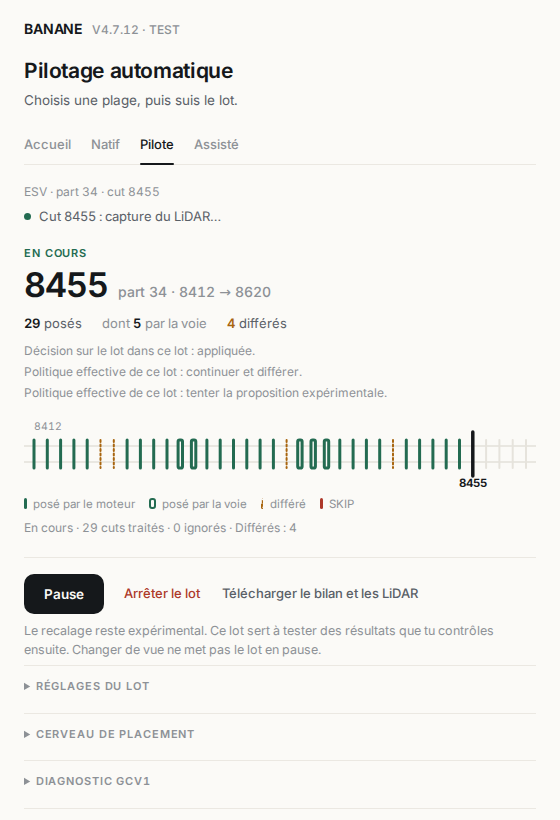
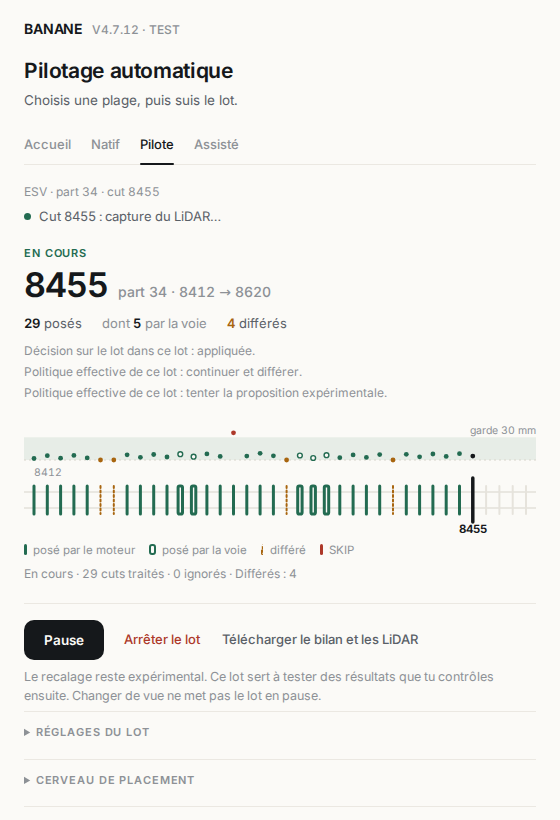
Chantier B, étape 2 : le profil en long au-dessus de la voie
Pour chaque cut, l'écart de la pose à la voie de ses voisins (garde du
premier passage, ou distance à la prédiction d'une reprise ou d'un choix),
avec la bande de la garde de continuité (0–30 mm) ; au-delà, point rouge.
background.js consigne cet écart par cut dans le lot (lotCommands), pour
les lots « appliquer » comme « observer ».

Claude-Session: https://claude.ai/code/session_01Mbx1oTKm5NQ5BEyZizExQ5

diff --git a/panel.js b/panel.js
@@ -90,13 +90,23 @@
    const cuts=[...new Set((b.sequence||[]).map(num).filter(Number.isFinite))];
    const classe=c=>fait.has(c)?(parVoie.has(c)?'voie-l':'moteur'):differe.has(c)?'differe':saute.has(c)?'skip':main.has(c)?'main'
      :c===actif?(incertain?'incertain':'actuel'):'avenir';
-   return {fait,differe,saute,main,parVoie,cuts,classe,ouvert,incertain,actif};
+   const ecart=c=>{const v=Number(b.lotCommands?.[c]?.ecartMm);return Number.isFinite(v)?v:null;};
+   return {fait,differe,saute,main,parVoie,cuts,classe,ouvert,incertain,actif,ecart};
  }
  function dessinerVoie(v){
    const W=512,x0=10,visibles=v.cuts.slice(-44),avenir=v.ouvert?4:0,n=visibles.length+avenir,pas=Math.min(22,(W-2*x0)/Math.max(n-1,1));
    const X=i=>Math.round((x0+i*pas)*10)/10;
-   let svg=`<svg viewBox="0 0 ${W} 68" xmlns="http://www.w3.org/2000/svg" aria-hidden="true">`
-     +`<line class="rail" x1="0" y1="26" x2="${W}" y2="26"/><line class="rail" x1="0" y1="42" x2="${W}" y2="42"/>`;
+   /* Profil en long : l'écart de chaque cut à la voie de ses voisins, au-dessus
+    * de la voie, avec la bande de la garde de continuité (0–30 mm). Échelle
+    * 0–45 mm ; au-delà, le point reste au plafond, plein rouge. */
+   const P0=40,PH=34,Y=mm=>Math.round((P0-Math.min(mm,45)/45*PH)*10)/10,avecProfil=visibles.some(c=>v.ecart(c)!==null);
+   const dy=avecProfil?46:0;
+   let svg=`<svg viewBox="0 0 ${W} ${68+dy}" xmlns="http://www.w3.org/2000/svg" aria-hidden="true">`;
+   if(avecProfil){svg+=`<rect class="bande" x="0" y="${Y(30)}" width="${W}" height="${Math.round((P0-Y(30))*10)/10}"/>`
+     +`<line class="zero" x1="0" y1="${P0}" x2="${W}" y2="${P0}"/><text x="${W}" y="${Y(30)-3}" text-anchor="end">garde 30 mm</text>`;
+     visibles.forEach((c,i)=>{const e=v.ecart(c);if(e===null)return;const k=v.classe(c);
+       svg+=`<circle class="p ${e>30?'hors':k}" cx="${X(i)}" cy="${Y(e)}" r="2.4"/>`;});}
+   svg+=`<g transform="translate(0 ${dy})"><line class="rail" x1="0" y1="26" x2="${W}" y2="26"/><line class="rail" x1="0" y1="42" x2="${W}" y2="42"/>`;
    visibles.forEach((c,i)=>{const x=X(i),k=v.classe(c),haut=k==='actuel'||k==='incertain';
      svg+=k==='voie-l'?`<rect class="t voie-l" x="${x-2.2}" y="20" width="4.4" height="28" rx="1.6" stroke-width="1.5"/>`
        :`<line class="t ${k}" x1="${x}" y1="${haut?12:20}" x2="${x}" y2="${haut?56:48}"/>`;
@@ -105,7 +115,7 @@
    if(visibles.length&&!['actuel','incertain'].includes(v.classe(visibles[0])))svg+=`<text x="${X(0)}" y="10">${entier(visibles[0])}</text>`;
    const dernier=visibles.at(-1);
    if(visibles.length>1&&!['actuel','incertain'].includes(v.classe(dernier)))svg+=`<text x="${X(visibles.length-1)}" y="10" text-anchor="end">${entier(dernier)}</text>`;
-   return svg+'</svg>';
+   return svg+'</g></svg>';
  }
  function render(s){state=s;const id=s.current?.identity,b=s.batch,m=s.manual,n=s.native,busy=working||s.busy;
    $('context').textContent=id?`ESV · part ${id.part} · cut ${id.cut}`:'';

diff --git a/background.js b/background.js
@@ -117,7 +117,7 @@ async function commandLot(proposal,lotObservation){
  /* « La ligne » : le panneau dessine « posé par la voie » les cuts traités que
   * la décision a commandés ; la trace vit dans le lot, bornée à ses cuts. */
  const b=engine.s.batch,cut=engine.s.before?.identity?.cut;
- if(b&&Number.isInteger(cut)){b.lotCommands=b.lotCommands||{};b.lotCommands[cut]={cut,action:command.action,stage:lotObservation.stage};}
+ if(b&&Number.isInteger(cut)){b.lotCommands=b.lotCommands||{};b.lotCommands[cut]={...(b.lotCommands[cut]||{}),cut,action:command.action,stage:lotObservation.stage};}
  if(command.action==='engine')return proposal;
  engine.s.proposal={...proposal,rails:command.rails,lotCommand:{...lotObservation.command,stage:lotObservation.stage,
    anchorsUsed:lotObservation.anchorsUsed||[],engineRails:proposal.rails}};
@@ -135,6 +135,13 @@ async function observeLot(shadow){
  const t0=Date.now();
  const decision=L.decideCut({capture:{identity,rails:capture.rails,pointsSceneRelative:capture.pointsSceneRelative,
    visibleByClipBoxes:capture.visibleByClipBoxes},science:{rails:shadow.rails,summary:shadow.summary},anchors:state.anchors,Shadow:globalThis.BananeGCV1Shadow});
+ /* « La ligne » : l'écart de chaque cut à la voie de ses voisins (garde du
+  * premier passage, ou distance à la prédiction pour une reprise ou un choix),
+  * pour le profil du panneau. Borné aux cuts du lot. */
+ const chosen=decision.chosen?Object.values(decision.chosen).map(c=>c.fromPredictionMm).filter(Number.isFinite):[];
+ const ecartMm=decision.guardMm??decision.fromPredictionMm??(chosen.length?Math.max(...chosen):null);
+ if(Number.isInteger(identity.cut)){batch.lotCommands=batch.lotCommands||{};
+   batch.lotCommands[identity.cut]={...(batch.lotCommands[identity.cut]||{}),cut:identity.cut,stage:decision.stage,ecartMm:Number.isFinite(ecartMm)?ecartMm:null};}
  if(decision.anchor)L.rememberAnchor(state.anchors,{identity:{part:identity.part,cut:identity.cut,frameId:identity.frameId??null},positions:decision.positions,stage:decision.stage},S?.lot?.maxAnchors??40);
  return {...decision,applied:false,displayed:false,engineMs:Date.now()-t0};
 }

diff --git a/panel.css b/panel.css
@@ -79,6 +79,10 @@ button:disabled{opacity:.42;cursor:not-allowed}
 .voie svg{display:block;width:100%;height:auto;overflow:visible}
 .voie text{font-family:Inter,"Segoe UI",system-ui,sans-serif;font-feature-settings:"tnum" 1;font-size:10.5px;fill:var(--text-3)}
 .voie .rail{stroke:var(--hair-2);stroke-width:1.2}
+.voie .bande{fill:var(--accent-t)}
+.voie .zero{stroke:var(--hair-2);stroke-width:1;stroke-dasharray:2 3}
+.voie .p{fill:var(--accent)}.voie .p.differe{fill:var(--amber)}.voie .p.voie-l{fill:var(--bg);stroke:var(--accent);stroke-width:1.4}
+.voie .p.actuel{fill:var(--text)}.voie .p.hors,.voie .p.incertain{fill:var(--red)}.voie .p.avenir,.voie .p.skip,.voie .p.main{fill:var(--text-3)}
 .voie .t{stroke-width:3;stroke-linecap:round}
 .voie .t.moteur{stroke:var(--accent)}
 .voie .t.voie-l{stroke:var(--accent);fill:var(--bg)}
